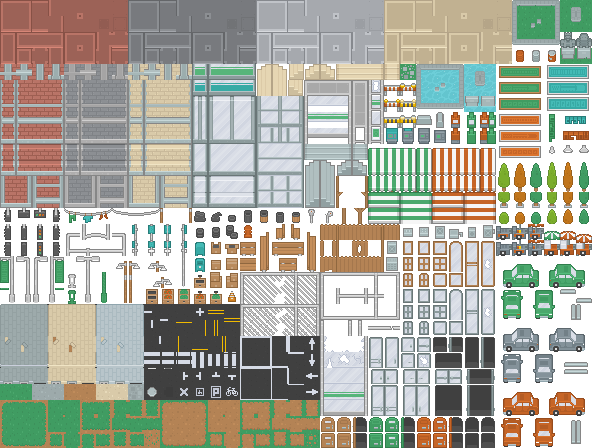
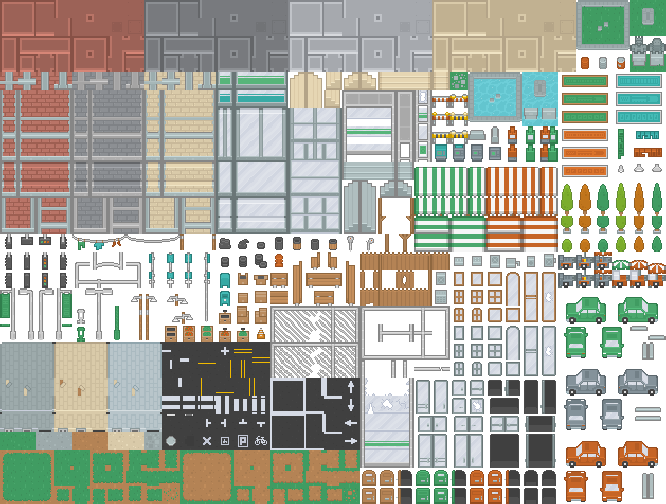
Use bleeded tilesets as default tileset

diff --git a/src/scripts/City.js b/src/scripts/City.js
@@ -2,13 +2,11 @@ import BaseScene from './BaseScene';
 import Phaser from 'phaser';
 
 // @ts-ignore
-//import IMGCity1 from '../assets/imgs/city01.png';
-import IMGCity1 from '../assets/imgs/city01_bleed.png';
+import IMGCity1 from '../assets/imgs/city01.png';
 // @ts-ignore
 import IMGCity2 from '../assets/imgs/city02.png';
 // @ts-ignore
-// import IMGForest1 from '../assets/imgs/forest01.png';
-import IMGForest1 from '../assets/imgs/forest01_bleed.png';
+import IMGForest1 from '../assets/imgs/forest01.png';
 // @ts-ignore
 import IMGSkeleton from '../assets/imgs/skeleton.png';
 // @ts-ignore

diff --git a/src/assets/tiles/Forest 01.tsx b/src/assets/tiles/Forest 01.tsx
@@ -1,4 +1,4 @@
 <?xml version="1.0" encoding="UTF-8"?>
 <tileset version="1.4" tiledversion="1.4.2" name="Forest 01" tilewidth="16" tileheight="16" spacing="2" margin="1" tilecount="1296" columns="32">
- <image source="../imgs/forest01_bleed.png" width="576" height="576"/>
+ <image source="../imgs/forest01.png" width="576" height="576"/>
 </tileset>

diff --git a/src/assets/tiles/City 01.tsx b/src/assets/tiles/City 01.tsx
@@ -1,4 +1,4 @@
 <?xml version="1.0" encoding="UTF-8"?>
 <tileset version="1.4" tiledversion="1.4.2" name="City 01" tilewidth="16" tileheight="16" spacing="2" margin="1" tilecount="1271" columns="37">
- <image source="../imgs/city01_bleed.png" width="666" height="504"/>
+ <image source="../imgs/city01.png" width="666" height="504"/>
 </tileset>
